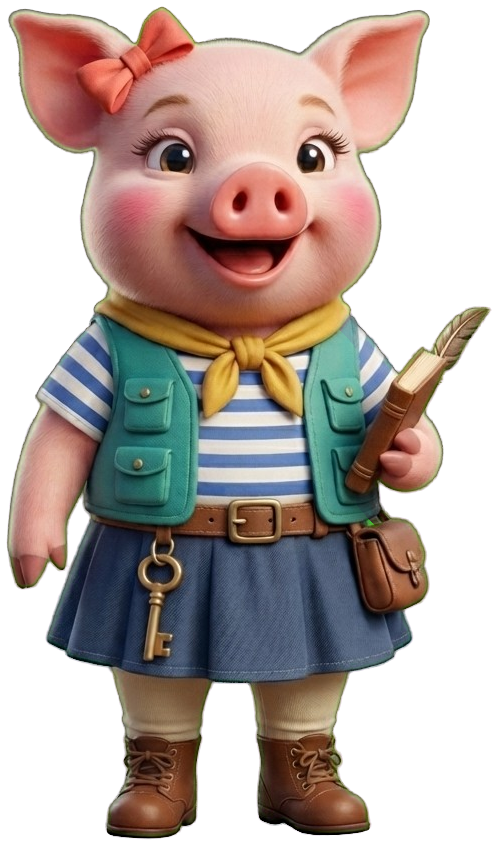
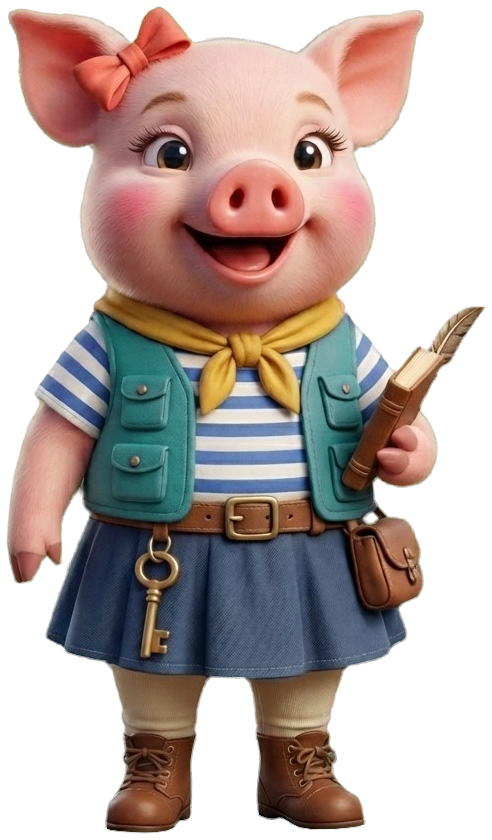
Talo und Tala in drei Posen: winken, freuen, nachdenken
- Sechs neue Bilder von Marc (Gemini), freigestellt und im Manifest.
- Startseite: beide winken. Einführung: Begrüßung mit Winken.
  Insel: Talo denkt beim Tipp nach und freut sich, wenn alles geschafft ist.
- Fehlt das Bild einer Pose, zeigt die App das Grundbild der Figur.
- Freistellen von Figuren verbessert: kein farbiger Saum mehr am Rand,
  kein pinker Schimmer im Fell, Lücken zwischen Arm und Kopf durchsichtig.
  Grundbilder von Talo und Tala neu freigestellt.

Claude-Session: https://claude.ai/code/session_01RquttY5Fvxi8zMpAb1Usdz

diff --git a/taleria/test/features/character_image_test.dart b/taleria/test/features/character_image_test.dart
@@ -1,0 +1,54 @@
+import 'dart:typed_data';
+
+import 'package:flutter/material.dart';
+import 'package:flutter_test/flutter_test.dart';
+import 'package:taleria/core/app_scope.dart';
+import 'package:taleria/core/assets/asset_keys.dart';
+import 'package:taleria/core/assets/character_image.dart';
+
+import '../test_helpers.dart';
+
+void main() {
+  Widget host(Map<String, Uint8List> files, Widget child) => AppScope(
+    services: buildTestApp(files: files).services,
+    child: MaterialApp(
+      home: Scaffold(body: Center(child: child)),
+    ),
+  );
+
+  Finder imageAt(String path) =>
+      find.byWidgetPredicate((w) => w is Image && w.image is AssetImage && (w.image as AssetImage).assetName == path);
+
+  const base = 'assets/images/character.talo.png';
+  const wave = 'assets/images/character.talo.wave.png';
+
+  testWidgets('Pose vorhanden: die App zeigt das Bild der Pose', (tester) async {
+    await tester.pumpWidget(
+      host({base: tinyPng, wave: tinyPng}, const CharacterImage(AssetKeys.talo, pose: CharacterPose.wave, width: 50)),
+    );
+    await tester.pumpAndSettle();
+    expect(imageAt(wave), findsOneWidget);
+    expect(imageAt(base), findsNothing);
+  });
+
+  testWidgets('Pose fehlt: die App zeigt das Grundbild der Figur', (tester) async {
+    await tester.pumpWidget(
+      host({base: tinyPng}, const CharacterImage(AssetKeys.talo, pose: CharacterPose.wave, width: 50)),
+    );
+    await tester.pumpAndSettle();
+    expect(imageAt(base), findsOneWidget);
+  });
+
+  testWidgets('Beide Bilder fehlen: der Platzhalter von Talo, kein Absturz', (tester) async {
+    await tester.pumpWidget(
+      host({}, const CharacterImage(AssetKeys.talo, pose: CharacterPose.happy, width: 50, height: 50)),
+    );
+    await tester.pumpAndSettle();
+    expect(find.text('Talo'), findsOneWidget);
+  });
+
+  test('Schlüssel der Posen', () {
+    expect(AssetKeys.pose(AssetKeys.tala, CharacterPose.think), 'character.tala.think');
+    expect(AssetKeys.all, contains('character.talo.wave'));
+  });
+}

diff --git a/taleria/lib/features/intro/speech_bubble.dart b/taleria/lib/features/intro/speech_bubble.dart
@@ -2,7 +2,7 @@ import 'package:flutter/material.dart';
 
 import '../../core/app_scope.dart';
 import '../../core/assets/asset_keys.dart';
-import '../../core/assets/taleria_asset.dart';
+import '../../core/assets/character_image.dart';
 import '../../core/theme/taleria_palette.dart';
 import '../../domain/content_models.dart';
 import '../../l10n/app_localizations.dart';
@@ -10,16 +10,20 @@ import '../../l10n/app_localizations.dart';
 enum Speaker { talo, tala }
 
 /// Eine Figur mit Sprechblase. Die Figur ist ihr Bild (oder der Platzhalter),
-/// später das Bild für den Zustand „sprechen“ (FIGUREN.md).
+/// Talo und Tala auf Wunsch in einer Pose.
 class SpeechBubble extends StatelessWidget {
-  const SpeechBubble({super.key, required this.speaker, required this.text}) : line = null;
+  const SpeechBubble({super.key, required this.speaker, required this.text, this.pose}) : line = null;
 
   /// Dialogzeile aus den Inhalten (Talo, Tala oder eine andere Figur).
-  SpeechBubble.line(DialogLine this.line, {super.key}) : speaker = null, text = line.text;
+  SpeechBubble.line(DialogLine this.line, {super.key}) : speaker = null, text = line.text, pose = null;
 
   final Speaker? speaker;
   final DialogLine? line;
   final String text;
+
+  /// Pose von Talo oder Tala (winken, freut sich, nachdenken). Ohne Pose
+  /// das Grundbild.
+  final CharacterPose? pose;
 
   @override
   Widget build(BuildContext context) {
@@ -46,8 +50,9 @@ class SpeechBubble extends StatelessWidget {
             border: Border.all(color: color, width: 3),
           ),
           child: ClipOval(
-            child: TaleriaAsset(
+            child: CharacterImage(
               assetKey,
+              pose: key == 'talo' || key == 'tala' ? pose : null,
               width: 72,
               height: 72,
               fit: BoxFit.cover,

diff --git a/taleria/lib/features/child/child_home_screen.dart b/taleria/lib/features/child/child_home_screen.dart
@@ -4,6 +4,7 @@ import 'package:flutter/material.dart';
 
 import '../../core/app_scope.dart';
 import '../../core/assets/asset_keys.dart';
+import '../../core/assets/character_image.dart';
 import '../../core/assets/taleria_asset.dart';
 import '../../core/theme/taleria_palette.dart';
 import '../../domain/avatar.dart';
@@ -114,6 +115,7 @@ class _DeckBackground extends StatelessWidget {
 }
 
 /// Talo links, der Avatar des Kindes im Bullauge in der Mitte, Tala rechts.
+/// Beide winken zur Begrüßung.
 class _CrewHeader extends StatelessWidget {
   const _CrewHeader({required this.avatar});
 
@@ -126,7 +128,10 @@ class _CrewHeader extends StatelessWidget {
       crossAxisAlignment: CrossAxisAlignment.end,
       children: [
         const Expanded(
-          child: Align(alignment: Alignment.bottomCenter, child: TaleriaAsset(AssetKeys.talo, width: 112, height: 140)),
+          child: Align(
+            alignment: Alignment.bottomCenter,
+            child: CharacterImage(AssetKeys.talo, pose: CharacterPose.wave, width: 112, height: 140),
+          ),
         ),
         Container(
           width: 132,
@@ -142,7 +147,10 @@ class _CrewHeader extends StatelessWidget {
           ),
         ),
         const Expanded(
-          child: Align(alignment: Alignment.bottomCenter, child: TaleriaAsset(AssetKeys.tala, width: 112, height: 140)),
+          child: Align(
+            alignment: Alignment.bottomCenter,
+            child: CharacterImage(AssetKeys.tala, pose: CharacterPose.wave, width: 112, height: 140),
+          ),
         ),
       ],
     );

diff --git a/taleria/lib/features/intro/intro_flow_screen.dart b/taleria/lib/features/intro/intro_flow_screen.dart
@@ -105,11 +105,12 @@ class _StoryStepState extends State<_StoryStep> {
   Widget build(BuildContext context) {
     final l10n = AppLocalizations.of(context);
     final lines = [
-      (Speaker.talo, l10n.introStoryTalo1),
-      (Speaker.tala, l10n.introStoryTala1),
-      (Speaker.talo, l10n.introStoryTalo2),
-      (Speaker.tala, l10n.introStoryTala2),
-      (Speaker.talo, l10n.introStoryTalo3),
+      // Zur Begrüßung winken beide.
+      (Speaker.talo, l10n.introStoryTalo1, CharacterPose.wave),
+      (Speaker.tala, l10n.introStoryTala1, CharacterPose.wave),
+      (Speaker.talo, l10n.introStoryTalo2, null),
+      (Speaker.tala, l10n.introStoryTala2, null),
+      (Speaker.talo, l10n.introStoryTalo3, null),
     ];
     final last = _shown >= lines.length;
 
@@ -120,10 +121,10 @@ class _StoryStepState extends State<_StoryStep> {
             reverse: true,
             padding: const EdgeInsets.all(16),
             children: [
-              for (final (speaker, text) in lines.take(_shown).toList().reversed)
+              for (final (speaker, text, pose) in lines.take(_shown).toList().reversed)
                 Padding(
                   padding: const EdgeInsets.only(bottom: 16),
-                  child: SpeechBubble(speaker: speaker, text: text),
+                  child: SpeechBubble(speaker: speaker, text: text, pose: pose),
                 ),
             ],
           ),

diff --git a/taleria/lib/features/island/island_screen.dart b/taleria/lib/features/island/island_screen.dart
@@ -1,6 +1,7 @@
 import 'package:flutter/material.dart';
 
 import '../../core/app_scope.dart';
+import '../../core/assets/asset_keys.dart';
 import '../../core/assets/video_placeholder.dart';
 import '../../core/theme/taleria_palette.dart';
 import '../../domain/content_models.dart';
@@ -189,9 +190,13 @@ class _StationList extends StatelessWidget {
               crossAxisAlignment: CrossAxisAlignment.stretch,
               children: [
                 if (allDone && stations.isNotEmpty)
-                  SpeechBubble(speaker: Speaker.talo, text: l10n.islandAllDone)
+                  SpeechBubble(speaker: Speaker.talo, pose: CharacterPose.happy, text: l10n.islandAllDone)
                 else if (next != null)
-                  SpeechBubble(speaker: Speaker.talo, text: l10n.islandNextHint(next.content.title)),
+                  SpeechBubble(
+                    speaker: Speaker.talo,
+                    pose: CharacterPose.think,
+                    text: l10n.islandNextHint(next.content.title),
+                  ),
                 if (stations.any((s) => controller.stateOf(s) == StationState.noWind)) ...[
                   if (next != null || allDone) const SizedBox(height: 12),
                   Card(

diff --git a/taleria/lib/core/assets/character_image.dart b/taleria/lib/core/assets/character_image.dart
@@ -1,0 +1,42 @@
+import 'package:flutter/material.dart';
+
+import 'asset_keys.dart';
+import 'taleria_asset.dart';
+
+/// Talo oder Tala, auf Wunsch in einer Pose (winken, freut sich, nachdenken).
+/// Fehlt das Bild der Pose, erscheint das Grundbild der Figur, fehlt auch
+/// das, ihr Platzhalter.
+class CharacterImage extends StatelessWidget {
+  const CharacterImage(
+    this.character, {
+    super.key,
+    this.pose,
+    this.width,
+    this.height,
+    this.fit = BoxFit.contain,
+    this.alignment = Alignment.center,
+  });
+
+  /// Schlüssel der Figur, zum Beispiel [AssetKeys.talo].
+  final String character;
+  final CharacterPose? pose;
+  final double? width;
+  final double? height;
+  final BoxFit fit;
+  final Alignment alignment;
+
+  @override
+  Widget build(BuildContext context) {
+    final base = TaleriaAsset(character, width: width, height: height, fit: fit, alignment: alignment);
+    final pose = this.pose;
+    if (pose == null) return base;
+    return TaleriaAsset(
+      AssetKeys.pose(character, pose),
+      width: width,
+      height: height,
+      fit: fit,
+      alignment: alignment,
+      fallback: base,
+    );
+  }
+}

diff --git a/taleria/lib/core/assets/asset_keys.dart b/taleria/lib/core/assets/asset_keys.dart
@@ -1,3 +1,7 @@
+/// Posen von Talo und Tala (BILDER.md, Abschnitt 4c): winken (Begrüßung),
+/// freut sich (geschafft), nachdenken (Tipp, Frage).
+enum CharacterPose { wave, happy, think }
+
 /// Feste Schlüssel für Grafiken, Animationen und Filme, die der Code direkt
 /// verwendet. Die Zuordnung zur Datei steht in `assets/asset_manifest.json`.
 abstract final class AssetKeys {
@@ -5,6 +9,9 @@ abstract final class AssetKeys {
   static const tala = 'character.tala';
   static const taleron = 'character.taleron';
   static const avatar = 'character.avatar';
+
+  /// Eine Pose von Talo oder Tala, zum Beispiel `character.talo.wave`.
+  static String pose(String character, CharacterPose pose) => '$character.${pose.name}';
 
   static const crewShip = 'ship.crew';
   static const mapBackground = 'map.background';
@@ -42,7 +49,9 @@ abstract final class AssetKeys {
 
   /// Alle festen Schlüssel oben, damit ein Test prüfen kann, dass sie im
   /// Manifest stehen.
-  static const all = [
+  static final all = [
+    for (final character in [talo, tala])
+      for (final p in CharacterPose.values) pose(character, p),
     talo,
     tala,
     taleron,

diff --git a/taleria/tool/bilder_freistellen.py b/taleria/tool/bilder_freistellen.py
@@ -55,8 +55,11 @@ def border_connected(mask, seeds=None):
         reached = grown
 
 
-def key_out_background(rgb, low=40.0, high=110.0):
-    """Einfarbigen Hintergrund durchsichtig machen. Liefert RGBA (float 0..255)."""
+def key_out_background(rgb, low=40.0, high=110.0, figure=False):
+    """Einfarbigen Hintergrund durchsichtig machen. Liefert RGBA (float 0..255).
+
+    figure: für Figuren mit Fell. Dort wirft der Hintergrund Farbe auf die
+    ganze Figur, und zwischen Arm und Kopf bleiben dunklere Lücken."""
     h, w, _ = rgb.shape
     border = np.concatenate([rgb[0, :], rgb[-1, :], rgb[:, 0], rgb[:, -1]])
     background = np.median(border, axis=0)
@@ -64,7 +67,7 @@ def key_out_background(rgb, low=40.0, high=110.0):
     # Vom Rand aus, dazu eingeschlossene Lücken in reiner Hintergrundfarbe
     # (zum Beispiel zwischen den Balken eines Turms). Pinke Dinge auf der Insel
     # sind nie so nah an der Hintergrundfarbe und bleiben.
-    region = border_connected(distance < high, seeds=distance < 35)
+    region = border_connected(distance < high, seeds=distance < (70 if figure else 35))
     alpha = np.ones((h, w))
     alpha[region] = np.clip((distance[region] - low) / (high - low), 0, 1)
 
@@ -79,17 +82,32 @@ def key_out_background(rgb, low=40.0, high=110.0):
 
     # Farbschimmer, den der Hintergrund auf Sand, Holz oder Fell am Rand wirft:
     # in einem Streifen am Rand den Anteil der Hintergrundfarbe herausnehmen.
-    near_edge = grow(alpha < 0.5, 24)
+    near_edge = np.ones((h, w)) if figure else grow(alpha < 0.5, 24)
     r, g, b = foreground[..., 0], foreground[..., 1], foreground[..., 2]
     if background[1] > max(background[0], background[2]):
         # grüner Hintergrund (zum Beispiel bei der rosa Tala)
         green = np.clip(g - np.maximum(r, b), 0, None) * near_edge
+        if figure:
+            # Direkt am Rand wirft der grüne Grund helles Licht aufs Fell, das
+            # sonst gelblich bleibt: dort Grün höchstens wie der Mittelwert.
+            rim = grow(alpha < 0.5, round(max(h, w) / 128))
+            green = np.maximum(green, np.clip(g - (r + b) / 2, 0, None) * rim)
         foreground[..., 1] = g - green
     else:
         # pinker Hintergrund
         magenta = np.clip(np.minimum(r, b) - g, 0, None) * near_edge
         foreground[..., 2] = b - magenta
         foreground[..., 0] = r - magenta * 0.35
+    # Feiner Saum aus Hintergrundfarbe am Rand (bei Fell und Haaren): Rand ein
+    # wenig nach innen ziehen (bei 1024 Pixeln drei Pixel). Die Farben bleiben.
+    choke = round(max(h, w) / 400) if figure else 0
+    for _ in range(choke):
+        shrunk = alpha.copy()
+        shrunk[1:, :] = np.minimum(shrunk[1:, :], alpha[:-1, :])
+        shrunk[:-1, :] = np.minimum(shrunk[:-1, :], alpha[1:, :])
+        shrunk[:, 1:] = np.minimum(shrunk[:, 1:], alpha[:, :-1])
+        shrunk[:, :-1] = np.minimum(shrunk[:, :-1], alpha[:, 1:])
+        alpha = shrunk
     return np.dstack([foreground, alpha * 255])
 
 
@@ -171,7 +189,10 @@ def main():
         target = os.path.join(OUT_DIR, args.schluessel + '.jpg')
         image.save(target, quality=82, optimize=True)
     else:
-        rgba = light_to_alpha(rgb) if args.art == 'wolke' else key_out_background(rgb)
+        if args.art == 'wolke':
+            rgba = light_to_alpha(rgb)
+        else:
+            rgba = key_out_background(rgb, figure=args.art == 'figur')
         rgba = crop_to_content(rgba)
         image = shrink(Image.fromarray(np.round(rgba).astype(np.uint8), 'RGBA'), MAX_WIDTH[args.art])
         target = os.path.join(OUT_DIR, args.schluessel + '.png')

diff --git a/taleria/ASSETS_LICENSES.md b/taleria/ASSETS_LICENSES.md
@@ -22,6 +22,12 @@ Bei Bildern aus Gemini steht Marc als Urheber; vor dem Start prüfen, ob die Nut
 | `icon.collection` | `assets/images/icon.collection.png` | Bild (KI) | Marc mit Google Gemini | 10.10.2026 | laut Nutzungsbedingungen von Gemini, vor dem Start prüfen | Original in `design/gemini/`, freigestellt mit `tool/bilder_freistellen.py`. |
 | `character.talo` | `assets/images/character.talo.png` | Bild (KI) | Marc mit Google Gemini | 10.10.2026 | laut Nutzungsbedingungen von Gemini, vor dem Start prüfen | Original in `design/gemini/`, freigestellt mit `tool/bilder_freistellen.py`. Entwurf, vor dem Start auf Ähnlichkeit mit bekannten Figuren prüfen. |
 | `character.tala` | `assets/images/character.tala.png` | Bild (KI) | Marc mit Google Gemini | 10.10.2026 | laut Nutzungsbedingungen von Gemini, vor dem Start prüfen | Original in `design/gemini/`, freigestellt mit `tool/bilder_freistellen.py`. Von Marc gewählte Fassung (mit Schleife und Rock). |
+| `character.talo.wave` | `assets/images/character.talo.wave.png` | Bild (KI) | Marc mit Google Gemini | 10.10.2026 | laut Nutzungsbedingungen von Gemini, vor dem Start prüfen | Pose „winkt“. Original in `design/gemini/`, freigestellt mit `tool/bilder_freistellen.py`. |
+| `character.talo.happy` | `assets/images/character.talo.happy.png` | Bild (KI) | Marc mit Google Gemini | 10.10.2026 | laut Nutzungsbedingungen von Gemini, vor dem Start prüfen | Pose „freut sich“. Original in `design/gemini/`, freigestellt mit `tool/bilder_freistellen.py`. |
+| `character.talo.think` | `assets/images/character.talo.think.png` | Bild (KI) | Marc mit Google Gemini | 10.10.2026 | laut Nutzungsbedingungen von Gemini, vor dem Start prüfen | Pose „denkt nach“. Original in `design/gemini/`, freigestellt mit `tool/bilder_freistellen.py`. |
+| `character.tala.wave` | `assets/images/character.tala.wave.png` | Bild (KI) | Marc mit Google Gemini | 10.10.2026 | laut Nutzungsbedingungen von Gemini, vor dem Start prüfen | Pose „winkt“. Original in `design/gemini/`, freigestellt mit `tool/bilder_freistellen.py`. |
+| `character.tala.happy` | `assets/images/character.tala.happy.png` | Bild (KI) | Marc mit Google Gemini | 10.10.2026 | laut Nutzungsbedingungen von Gemini, vor dem Start prüfen | Pose „freut sich“. Original in `design/gemini/`, freigestellt mit `tool/bilder_freistellen.py`. |
+| `character.tala.think` | `assets/images/character.tala.think.png` | Bild (KI) | Marc mit Google Gemini | 10.10.2026 | laut Nutzungsbedingungen von Gemini, vor dem Start prüfen | Pose „denkt nach“. Original in `design/gemini/`, freigestellt mit `tool/bilder_freistellen.py`. |
 | `island.hafen.background` | `assets/images/island.hafen.background.jpg` | Bild (KI) | Marc mit Google Gemini | 10.10.2026 | laut Nutzungsbedingungen von Gemini, vor dem Start prüfen | Original in `design/gemini/`. Das Schild „Fischbrötchen“ ist Schrift im Bild (nur Deutsch). |
 | `island.tauschinsel.background` | `assets/images/island.tauschinsel.background.jpg` | Bild (KI) | Marc mit Google Gemini | 10.10.2026 | laut Nutzungsbedingungen von Gemini, vor dem Start prüfen | Original in `design/gemini/`. |
 | `island.wunschinsel.background` | `assets/images/island.wunschinsel.background.jpg` | Bild (KI) | Marc mit Google Gemini | 10.10.2026 | laut Nutzungsbedingungen von Gemini, vor dem Start prüfen | Original in `design/gemini/`. |

diff --git a/taleria/CLAUDE.md b/taleria/CLAUDE.md
@@ -570,3 +570,8 @@ Jede Insel: Ankunftsfilm, 7 Stationen mit 3 Ankerplätzen dazwischen (Schatzinse
 - Wegmarken: geschafft goldener Haken; die nächste Station weiß mit Nummer, sie leuchtet und pulsiert leicht; gesperrt grau mit Nummer, Anker oder Flagge und kleinem Schloss; ohne Wind mit kleinem Wind-Zeichen. Antippen wie bisher: öffnen oder Hinweis.
 - Der Weg gehört zum Bild und steht im Asset-Manifest (`route`, Punkte von 0 bis 1). Fehlt das Bild, zeigt die App einen grünen Grund mit gezeichnetem Sandweg und einem Standard-Weg.
 - Oben sagt Talo, was als Nächstes dran ist (oder dass die Insel geschafft ist), darunter bei Bedarf der Wind-Hinweis. Unter dem Bild stehen wie bisher Lernziel und die Liste „Stationen“ mit allen Titeln; Bonus-Stationen (Flaschenpost) stehen nur in der Liste.
+
+**Posen von Talo und Tala, umgesetzt am 10.10.2026:**
+- Beide gibt es in drei Posen als Bild: winkt, freut sich, denkt nach (`character.talo.wave`, `.happy`, `.think`, genauso für Tala; BILDER.md Abschnitt 4c). Fehlt das Bild einer Pose, zeigt die App das Grundbild der Figur (`CharacterImage`).
+- Verwendet: Startseite (beide winken), Begrüßung in der Einführung (winken), Insel von innen (Talo denkt nach beim Tipp, freut sich, wenn die Insel geschafft ist). Später auch in den Stationen.
+- Freistellen von Figuren (`--art figur`): Der farbige Hintergrund wirft Licht auf das ganze Fell, das wird überall herausgerechnet; der Rand wird ein wenig nach innen gezogen und Lücken zwischen Arm und Kopf werden durchsichtig.

diff --git a/taleria/BILDER.md b/taleria/BILDER.md
@@ -245,6 +245,12 @@ Gleiche Figur wie im angehängten Bild, gleicher Stil, gleiche Kleidung und glei
 
 Danach auf dieselbe Art „freut sich“ (`.happy`) und „denkt nach“ (`.think`) für die Stationen.
 
+| Pose | Talo | Tala |
+| --- | --- | --- |
+| winkt (`.wave`) | da | da |
+| freut sich (`.happy`) | da | da |
+| denkt nach (`.think`) | da | da |
+
 ### Fünf Rang-Abzeichen → `rank.schiffsjunge` … `rank.kapitaen`
 
 Den Orden von der Startseite (Bild 12) anhängen, damit alle Abzeichen dazu passen. Von Rang zu Rang wertvoller:
